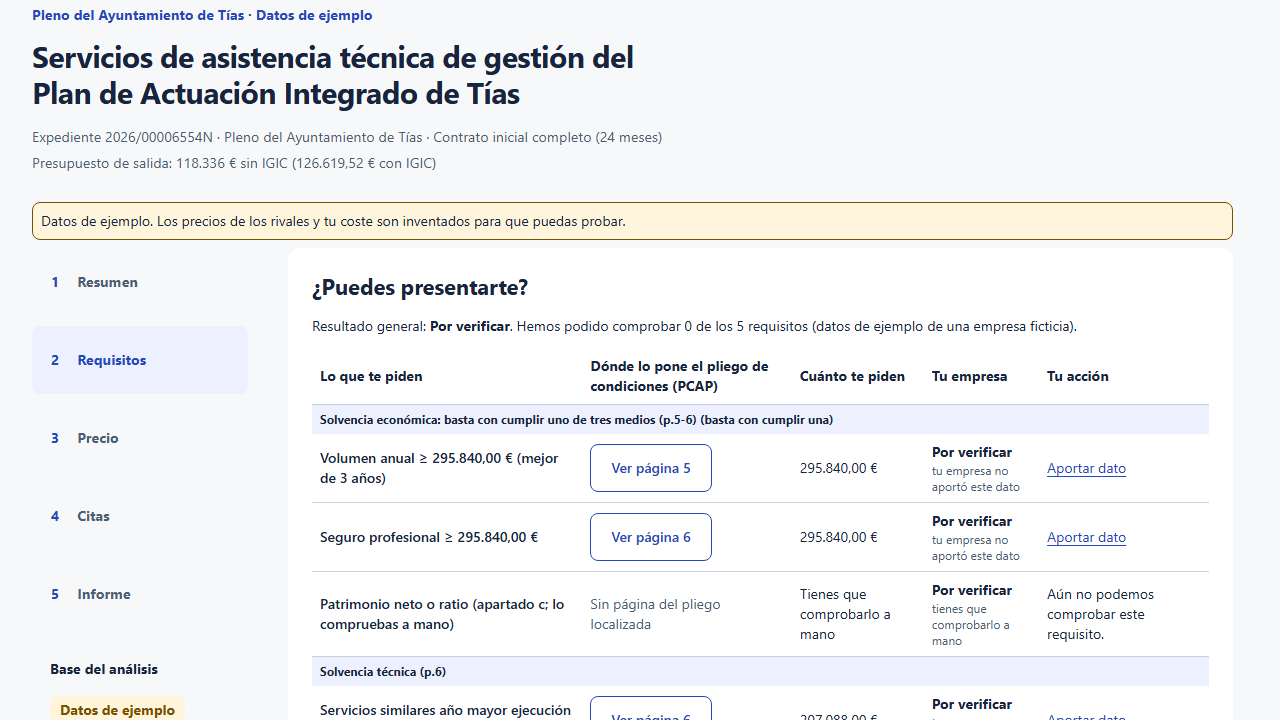
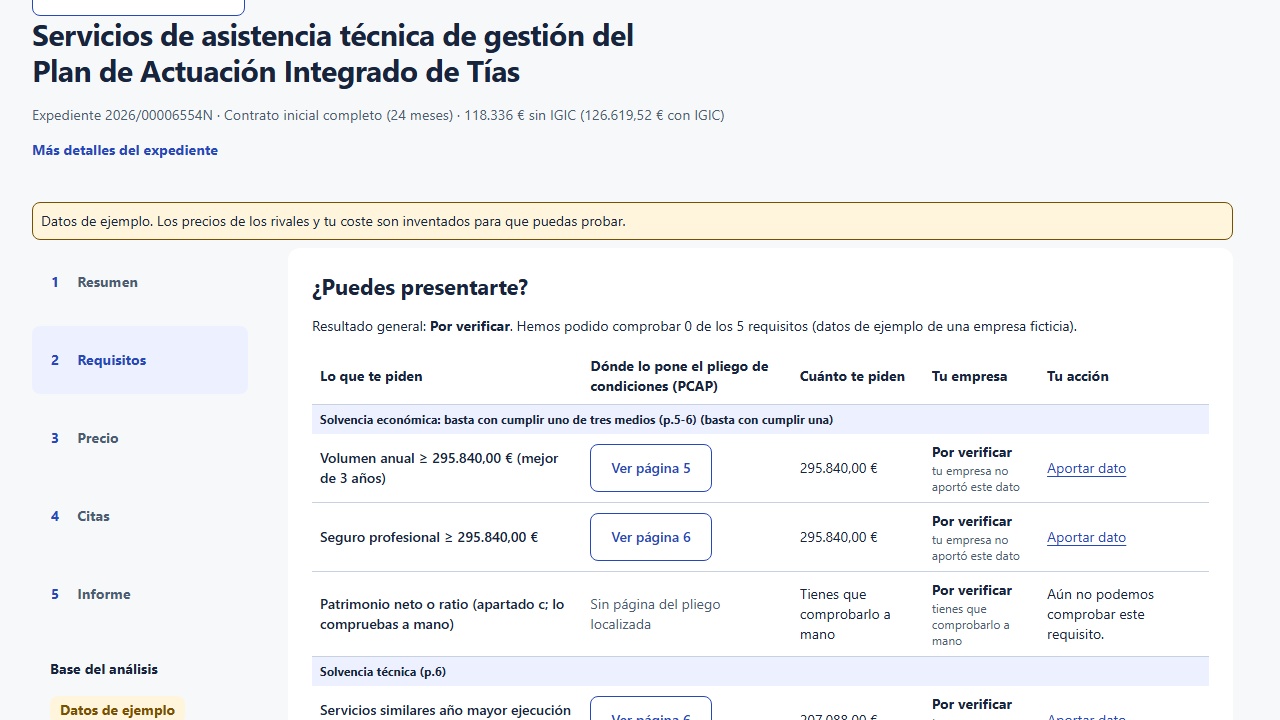
RC issue #2: RELEASE_CANDIDATE + DEMO_FINAL + submission + shots + log
Docs entregables s25 sobre codigo @4b44ec9 (U1/U2/U3/U6).
Gates: backend 548+2skip, vitest 237, E2E 78/78, shots 4/4,
demo_story 8/8 MATCH. G0/M1/T1/R1 BLOCKED externos (autor).

Changed region(s): [[0.0, 0.0, 0.5625, 0.2444]]

diff --git a/docs/RELEASE_CANDIDATE_20261029.md b/docs/RELEASE_CANDIDATE_20261029.md
@@ -1,0 +1,74 @@
+# Release Candidate · 29-oct-2026 (issue #2)
+
+Estado: RC local. Código @4b44ec9 (U1/U2/U3/U6 sobre 7af9417);
+este documento + DEMO_FINAL_180S + capturas regen en el commit RC.
+
+## Qué entra (P0 del prompt maestro, verificado)
+
+- U1 cabecera compacta (`3e2172b`): volver + órgano/modo en una
+  fila; meta a una línea (expediente + ámbito + PBL corto);
+  resto en «Más detalles del expediente». h1, testids y
+  literales pineados intactos. E2E e01/r06/qa-visual 16/16.
+- U2 hero comparador (`fb0ea17`): bandeja tras KPIs (comparar
+  antes que detalles); hero `decision-comparison-hero` con
+  `indicator_motivo` del backend verbatim. CMP-03 nuevo:
+  10/15 en Precio, 5916,80 + mismos puntos. Nota: el motivo
+  usa formato 5916,80 (backend), no 5.916,80 (§24 erró aquí).
+- U3 drawer variante B (`73340fc`): tarjeta
+  `evidence-provenance` según modo, aditiva; aviso honesto
+  de imagen intacto. T15 3/3.
+- U6-parcial (`4b44ec9`): `selectionReasonEs` mapea los 2
+  motivos de la malla a español; contrato backend intacto
+  (pineado en test_stress.py). Vitest 237.
+
+## Qué NO entra (aparcado/BLOCKED, con motivo)
+
+- G0/M1/T1 (Meta live + segunda pasada): BLOCKED externo.
+  Sin MODEL_API_KEY/META_API_URL en el entorno de
+  integración, sin admisión verificable, sin saldo. Todo lo
+  demás ejecutable sin Meta está hecho; híbrido sigue
+  `provider_not_configured` honesto.
+- U4 (curva móvil mediana): aparcado P1. La curva actual
+  pasa R06/e11 sin overflow; reordenar ejes es riesgo
+  visual sin evidencia de problema.
+- U5 (requisitos móvil): cubierto en lo esencial. Los
+  grupos OR ya muestran «basta con cumplir una» y el
+  móvil 390 no desborda (verificado -15). Sin cambios.
+- D1 (coverage visible): aparcado P1. Requiere endpoint o
+  manifiesto nuevo; beneficio marginal frente a riesgo.
+- U7/W1/Pareto/techo móvil: aparcado P2/P1. Sin evidencia
+  de problema en E2E ni en inspección.
+- B1 (render diferido): NO CHANGE por defecto del propio
+  prompt (sin medición de beneficio no se toca).
+- D2 (segunda pasada extracción): P2, requiere live.
+- R1 (vídeo + candidatura): autor-only. Guion v3 listo;
+  vídeo sin grabar; candidatura sin enviar.
+
+## Reglas del paquete que NO se aplicaron (decisión)
+
+- D-ISSUE2-1: la regla 4 («no hacer push») entra en
+  conflicto con la orden vigente del autor («siempre
+  commit y push», D28-2). Prevalece la orden del autor:
+  commits U1/U2/U3/U6 pusheados por separado + este RC.
+- El prompt pedía aparcar U6 salvo el microcopy: aplicado
+  solo el string inglés del techo (motivo de la malla).
+
+## Gates RC (Windows, exit 0 observado)
+
+- `verify.py --skip-e2e`: ALL CHECKS PASSED (backend,
+  lint, tsc, build, vitest 237, ruff, mypy 109).
+- Backend: 548 passed + 2 skipped (sin cambios desde
+  7af9417; live opt-in + symlink Windows).
+- E2E completa: 78/78 (77 + CMP-03).
+- demo-shots 4/4; 9 PNG regen (cabecera nueva en todas);
+  02 + 07 inspeccionadas.
+- demo_story: 8/8 MATCH contra ejecucion-1/2 del ZIP#1.
+- Visual: workhead plegado/desplegado, hero, drawer,
+  móvil 390. Capturas /tmp: u1-*, u2-hero, u3-drawer.
+
+## Riesgos abiertos
+
+- La auditoría (issue #2) se hizo por lectura web, sin
+  ejecutar nada: varias afirmaciones son de fiar con
+  pinzas (ej. formato 5.916,80 del §24, falso).
+- Sin Meta live no hay ablation real ni segunda pasada.

diff --git a/docs/submission-draft.md b/docs/submission-draft.md
@@ -49,10 +49,10 @@ Current document-extraction state (28-oct):
 
 ## Verification (real runs, Windows)
 
-- Backend: 548 passing + 2 skipped (live opt-in + Windows symlink), 550 collected (unit + evaluation + integration + contracts), exit 0, observed 29-oct @7af9417. Ruff check + format clean, mypy 109 files clean, observed 29-oct.
-- Web: 236 vitest passing (31 files), eslint + tsc exit 0, vite build OK, observed 29-oct @7af9417.
-- Playwright E2E: 77/77 green (hermetic per-run storage), observed 29-oct @7af9417. Specs run on real local API + web, Chromium, every spec guarded to loopback-only traffic (0 external calls).
-- `scripts/verify.py`: 10/10 ALL CHECKS PASSED, exit 0, observed 29-oct @7af9417. Two clean rehearsals R1+R2 10/10 (fresh storage, real loopback servers).
+- Backend: 548 passing + 2 skipped (live opt-in + Windows symlink), 550 collected (unit + evaluation + integration + contracts), exit 0, observed 29-oct @4b44ec9 (sin cambios desde 7af9417). Ruff check + format clean, mypy 109 files clean, observed 29-oct.
+- Web: 237 vitest passing (31 files), eslint + tsc exit 0, vite build OK, observed 29-oct @4b44ec9. Novedades RC: cabecera compacta (U1), hero comparador (U2), procedencia en drawer (U3), motivos de malla en español (U6).
+- Playwright E2E: 78/78 green (hermetic per-run storage), observed 29-oct @4b44ec9. Specs run on real local API + web, Chromium, every spec guarded to loopback-only traffic (0 external calls).
+- `scripts/verify.py`: 10/10 ALL CHECKS PASSED, exit 0, observed 29-oct @4b44ec9. Two clean rehearsals R1+R2 10/10 (fresh storage, real loopback servers).
 - CI (GitHub Actions, incl. Playwright): green on b00dda8 pre-round-2 (26-oct); current pushes not forced through CI per author order.
 - Demo oracles: `fixtures/demo/expected.json` (cost 90000.00, rivals 106502.40 / 110052.48; 5/15/30 % cases; anomaly possible_justification_required at 30 %).
 - Detail: `docs/verification-log.md`.

diff --git a/docs/DEMO_FINAL_180S.md b/docs/DEMO_FINAL_180S.md
@@ -1,0 +1,46 @@
+# Demo final 180 s · planes A/B/C (29-oct-2026, RC @4b44ec9)
+
+Estado: PLAN, sin grabar. El guion detallado bloque a bloque
+sigue en `demo-script-180s.md` v3. Este documento solo fija
+qué grabar según lo que funcione el día de la grabación y
+los checkpoints de honestidad.
+
+## Reglas comunes (los 3 planes)
+
+- Offline total: sin llamadas Meta en el frontal; el vídeo
+  lo declara («Datos de ejemplo», sin predicción).
+- Nada grabado antes de `python scripts/verify.py` en verde
+  sobre el checkout exacto de la grabación.
+- Si algo falla en directo, se dice en voz alta y se sigue
+  con el plan de abajo. Nada de re-grabar para esconderlo.
+
+## Plan A (ideal): recorrido oro en vivo
+
+1. Biblioteca → «Ver ejemplo» (Tías, Datos de ejemplo).
+2. Resumen: Lo esencial + «Sigue estos tres pasos».
+3. Requisitos: bandas por criterio, «basta con cumplir una».
+4. Precio: presets 10 % → guardar → 15 % → guardar →
+   hero del comparador («conserva 5916,80 € más de
+   beneficio con los mismos puntos»).
+5. Citas: drawer con tarjeta «De dónde sale esta cita».
+6. Informe: abrir prueba, decisión, crear informe,
+   descargar HTML. Cierre en Resumen.
+- Checkpoints: 118.336 €, 49,0 de 49, «5916,80»,
+  «No pudimos mostrar la imagen», presunción art. 149.
+
+## Plan B (si algo falla en vivo)
+
+- Mismo recorrido con capturas `docs/demo/01-10` como
+  apoyo + narración sobre la app real en los pasos que
+  sí funcionen. Se declara qué parte es captura fija.
+
+## Plan C (si la app no arranca)
+
+- Solo capturas 01-10 + `demo_story` (4 escenarios, 4
+  HTML, comparación) + narración. Se declara que la
+  app no arrancó y se enseña el log, no un éxito.
+
+## Evidencia mínima a conservar
+
+- Commit exacto grabado, salida de verify.py, fecha,
+  plan usado (A/B/C) y desviaciones declaradas.

diff --git a/docs/verification-log.md b/docs/verification-log.md
@@ -1444,3 +1444,31 @@ Gates finales Windows (exit 0 observado):
   v-req, v-mobile.
 Sin Meta en vivo (G3 sigue blocked: sin clave). Vídeo y
 sesiones de usabilidad siguen pendientes del autor.
+
+## 2026-10-29 · Issue #2 P0 (U1/U2/U3/U6) + RC (lead, Windows)
+
+Paquete BIDLAB_AUDITORIA_Y_PROMPT_2026-10-29 leído entero
+(LEER_PRIMERO + diagnóstico + prompt 1390 líneas). Sin
+MANIFEST (nada que verificar). Fase 0: HEAD bd307c9 limpio;
+MODEL_API_KEY/META_API_URL ausentes → G0/M1/T1 BLOCKED
+externos (autor). D-ISSUE2-1: orden vigente del autor
+(siempre commit y push) prevalece sobre la regla 4 del
+prompt (mismo criterio que D28-2).
+
+Commits: 3e2172b (U1 cabecera) + fb0ea17 (U2 hero) +
+73340fc (U3 procedencia) + 4b44ec9 (U6 motivos) + RC.
+
+Gates @4b44ec9 (exit 0 observado): verify.py --skip-e2e ALL
+CHECKS PASSED; backend 548+2skip (550); vitest 237/31;
+tsc/eslint/build OK; ruff + mypy 109 OK; E2E 78/78 (77 +
+CMP-03); demo-shots 4/4 (9 PNG regen, 02+07
+inspeccionadas); demo_story 8/8 MATCH vs ZIP#1.
+Visual /tmp: u1-workhead, u1-details, u1-pricing-fold,
+u2-hero, u3-drawer.
+
+Aparcados con motivo en RELEASE_CANDIDATE_20261029.md:
+U4/U5/D1 (P1), U7/W1/Pareto (P2/P1), B1 (NO CHANGE),
+D2 (requiere live), R1 (autor). Nota §24: el motivo
+usa 5916,80 (backend), no 5.916,80; test corregido al
+texto real. Sin Meta en vivo (G3 blocked). Vídeo,
+sesiones y candidatura: autor.
